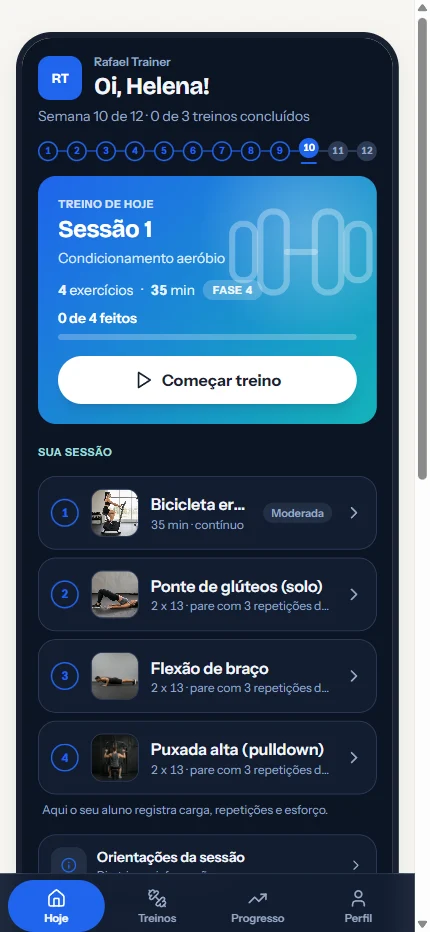
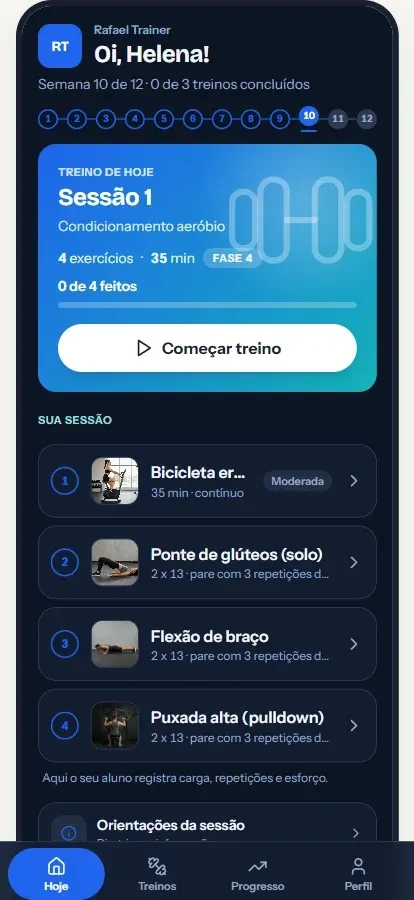
O aparelho vira tela de celular de verdade, e os pontos do hero mudam de lado
A captura do app trazia a barra de rolagem do navegador na borda e o app
num cartao sobre fundo branco: print de preview desktop, nao tela de
celular (era isso que o hack de 113% tentava esconder). O asset foi
recortado na origem (414x900, sem barra e sem margens) e a moldura recebe a
imagem de borda a borda na proporcao real. Os pontos do hero invertem:
nascem discretos na regiao do video e somem antes do texto, em elipse
compacta com alfa menor, porque atras da copy atrapalhavam a leitura e
cobrindo a secao inteira chamavam atencao demais.

diff --git a/src/pages/landing/prototipo.html b/src/pages/landing/prototipo.html
@@ -46,7 +46,7 @@
 
 <!-- HERO (variante B do protótipo, fixada como padrão) -->
 <section id="video" data-screen-label="Hero" style="position:relative;overflow:hidden;background:#0B1628;color:#F3F1EA">
-  <div data-oculta-m style="position:absolute;inset:0;pointer-events:none;background-image:radial-gradient(rgba(190,214,232,.28) 1.3px,transparent 1.4px);background-size:26px 26px;mask-image:linear-gradient(90deg,#000 0%,rgba(0,0,0,.75) 38%,rgba(0,0,0,.25) 58%,transparent 76%);-webkit-mask-image:linear-gradient(90deg,#000 0%,rgba(0,0,0,.75) 38%,rgba(0,0,0,.25) 58%,transparent 76%)"></div>
+  <div data-oculta-m style="position:absolute;inset:0;pointer-events:none;background-image:radial-gradient(rgba(190,214,232,.2) 1.3px,transparent 1.4px);background-size:26px 26px;mask-image:radial-gradient(ellipse 42% 58% at 76% 32%,#000 0%,rgba(0,0,0,.45) 55%,transparent 80%);-webkit-mask-image:radial-gradient(ellipse 42% 58% at 76% 32%,#000 0%,rgba(0,0,0,.45) 55%,transparent 80%)"></div>
   <div style="position:absolute;right:-200px;top:-200px;width:760px;height:760px;border-radius:50%;background:radial-gradient(circle,rgba(232,163,23,.16) 0%,rgba(232,163,23,0) 62%);pointer-events:none;animation:lp-orbita 14s ease-in-out infinite"></div>
   <div style="position:absolute;left:-260px;bottom:-320px;width:700px;height:700px;border-radius:50%;background:radial-gradient(circle,rgba(20,179,186,.16) 0%,rgba(20,179,186,0) 62%);pointer-events:none;animation:lp-orbita2 18s ease-in-out infinite"></div>
   <div style="position:relative;width:min(1180px,100% - 40px);margin:0 auto;padding:clamp(48px,7vw,96px) 0 clamp(64px,7vw,96px);display:grid;grid-template-columns:{{ colunasHero }};gap:clamp(32px,4vw,56px);align-items:center">
@@ -310,8 +310,8 @@
       <div style="position:relative;width:min(280px,100%)">
         <div style="position:absolute;inset:30px -30px -10px -30px;border-radius:50%;background:radial-gradient(ellipse,rgba(32,100,236,.22) 0%,rgba(32,100,236,0) 65%);pointer-events:none"></div>
         <div style="position:relative;padding:10px;border-radius:48px;background:linear-gradient(165deg,#232C3B 0%,#0A0F18 40%,#1A2230 100%);box-shadow:0 50px 90px -40px rgba(11,22,40,.8),0 0 0 1px rgba(255,255,255,.1),inset 0 1px 0 rgba(255,255,255,.14)">
-          <div style="position:relative;border-radius:38px;overflow:hidden;background:#0B1628;aspect-ratio:430/932">
-            <img src="/landing/sistema-aluno.webp" alt="Aplicativo do aluno: treino de hoje" width="430" height="932" style="position:absolute;inset:0;width:100%;height:100%;object-fit:cover;object-position:center top;display:block">
+          <div style="position:relative;border-radius:38px;overflow:hidden;background:#0B1628;aspect-ratio:414/900">
+            <img src="/landing/sistema-aluno.webp" alt="Aplicativo do aluno: treino de hoje" width="414" height="900" style="position:absolute;inset:0;width:100%;height:100%;object-fit:cover;object-position:center top;display:block">
           </div>
         </div>
         <div data-oculta-m style="position:absolute;right:-56px;top:24%;background:#FFFDF9;color:#17202E;border-radius:12px;padding:10px 12px;box-shadow:0 24px 50px -20px rgba(0,0,0,.4);display:flex;gap:10px;align-items:center;animation:lp-flutuar 6s ease-in-out infinite">
